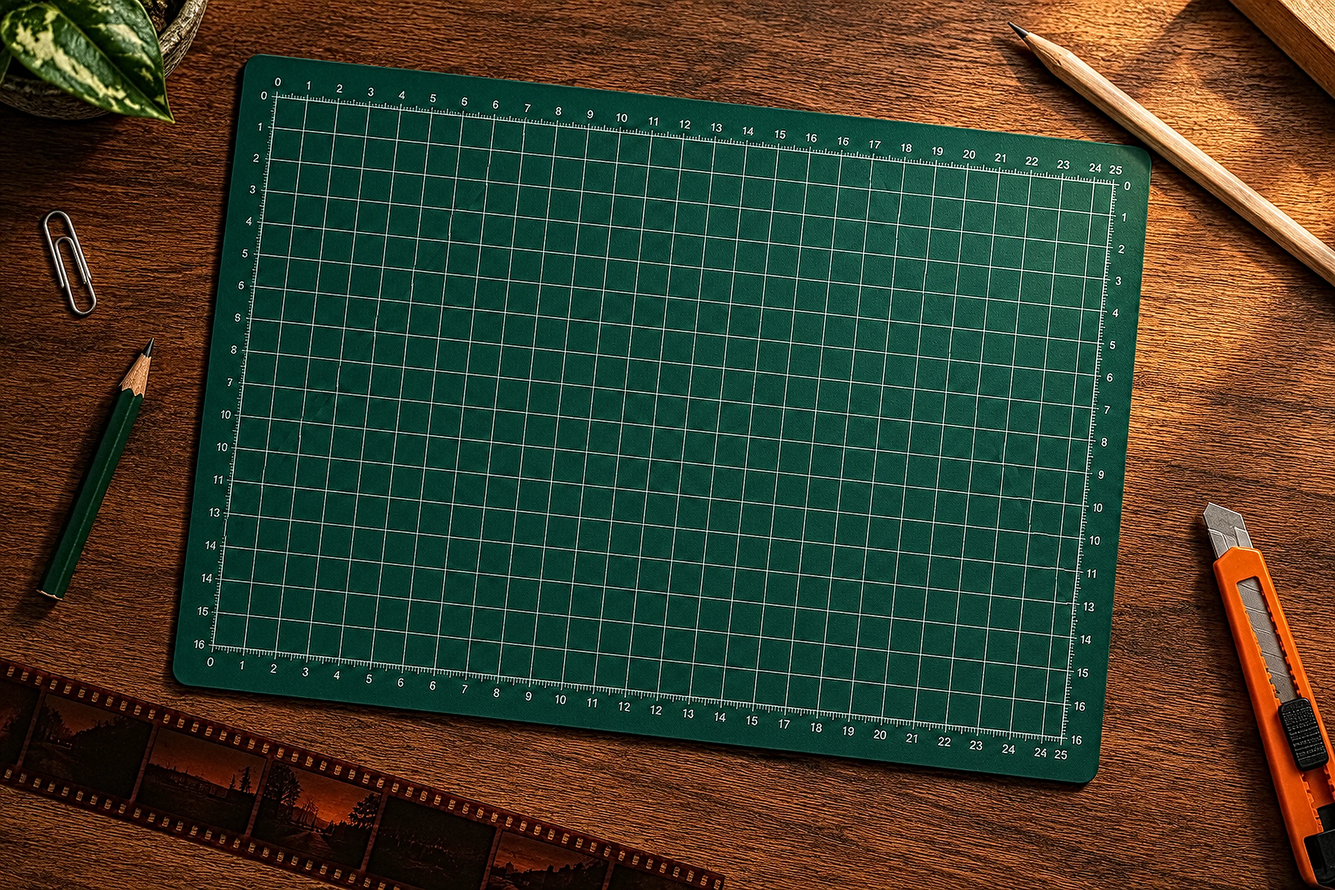
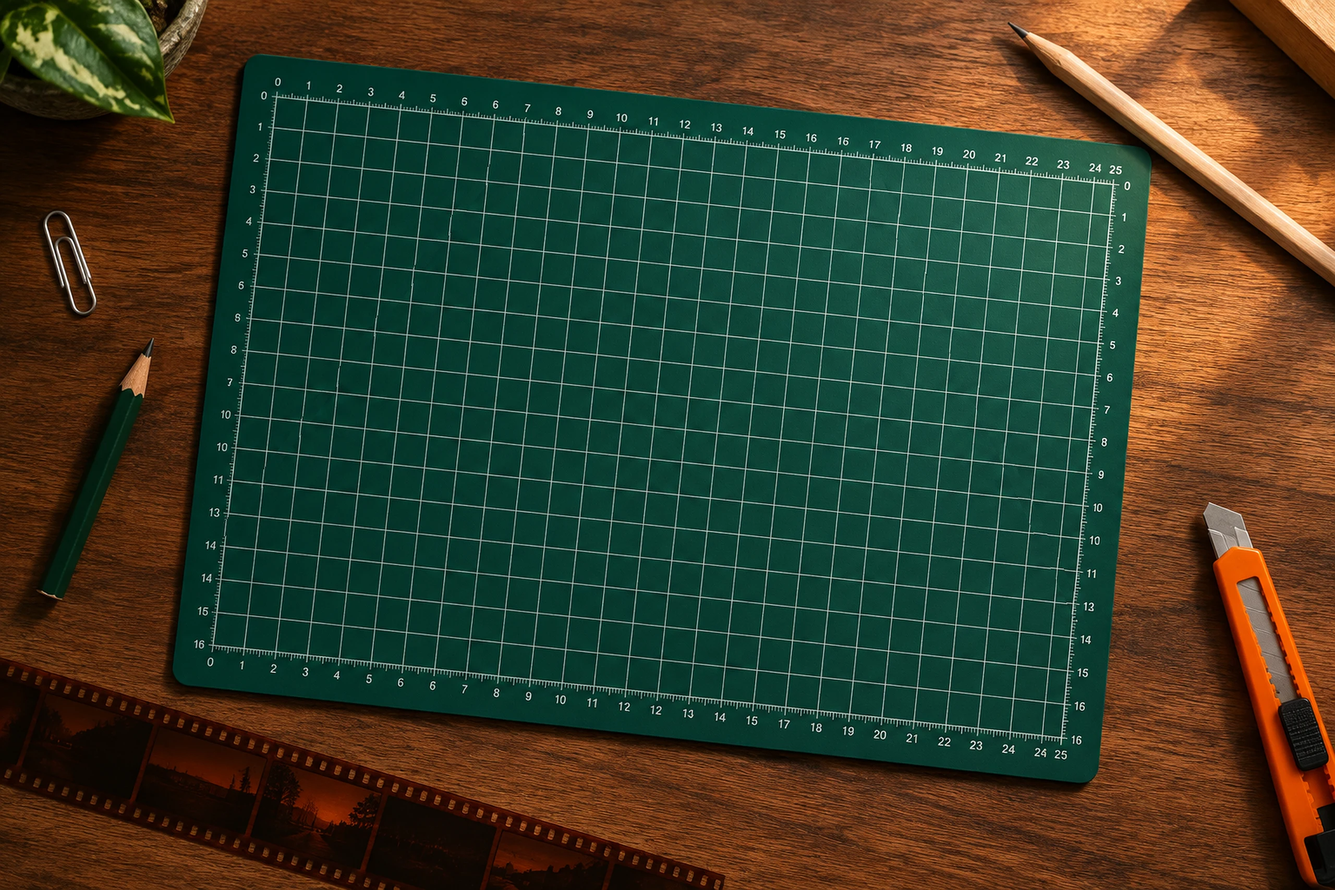
On Air: photoreal cork reel turning between real render angles, hand actually holding the reel, gentle sharpening
Claude-Session: https://claude.ai/code/session_015Py254KMr5kCvAhqEtRz8k

diff --git a/src/pages/OnAir.jsx b/src/pages/OnAir.jsx
@@ -4,7 +4,6 @@ import { Play } from 'lucide-react'
 import { CinemaThumb, useCinema } from '../components/qz/CinemaPlayer.jsx'
 import { fmtDate } from '../components/qz/Kit.jsx'
 import { assetUrl } from '../utils/assets.js'
-import CorkReel3D from '../components/onair/CorkReel3D.jsx'
 import { videos } from '../data/videos.js'
 import { YOUTUBE_CONFIG } from '../data/youtubeConfig.js'
 
@@ -33,20 +32,22 @@ function Stage() {
   const heroO = useTransform(p, [0, 0.08, 0.16], [1, 1, 0])
   const heroY = useTransform(p, [0, 0.16], ['0vh', '-6vh'])
 
-  // ٢. البكرة: نفس العنصر طول الوقت
-  const reelScale = useTransform(p, [0, 0.24, 0.62, 0.74, 1], [0.78, 1, 1, 0.56, 0.56])
-  const reelY = useTransform(p, [0, 0.62, 0.74, 1], ['0vh', '0vh', '-9vh', '-9vh'])
-  const rotX = useTransform(p, [0.26, 0.36, 0.46, 0.56, 0.62], [0, 58, 70, 28, 0])
-  const rotY = useTransform(p, [0.26, 0.36, 0.46, 0.56, 0.62], [0, -24, 36, -12, 0])
-  const rotZ = useTransform(p, [0, 1], [0, 220])
-
+  // ٢. البكرة: صور رندر حقيقية من زاويتين — بتلف بالسكرول وبتتبدّل بينهم
+  const reelScale = useTransform(p, [0, 0.24, 0.62, 0.7], [0.74, 1, 1, 0.9])
+  const rotZ = useTransform(p, [0, 0.66], [0, 150])
+  const tiltO = useTransform(p, [0.3, 0.37, 0.5, 0.57], [0, 1, 1, 0])
+  const frontO = useTransform(p, [0.3, 0.37, 0.5, 0.57, 0.66, 0.72], [1, 0, 0, 1, 1, 0])
+  const rotY = useTransform(p, [0.26, 0.37, 0.5, 0.62], [0, -18, 14, 0])
+  const rotX = useTransform(p, [0.26, 0.37, 0.5, 0.62], [0, 10, -8, 0])
+  const reelY = useTransform(p, [0.62, 0.72], ['0vh', '-4vh'])
   const revealO = useTransform(p, [0.26, 0.34, 0.58, 0.66], [0, 1, 1, 0])
   const revealX = useTransform(p, [0.26, 0.34], ['3vw', '0vw'])
 
   // ٣. مدعوم بالحكايات
   const powerO = useTransform(p, [0.68, 0.76], [0, 1])
   const powerBlur = useTransform(p, [0.68, 0.78], ['blur(14px)', 'blur(0px)'])
-  const handY = useTransform(p, [0.66, 0.82], ['70vh', '0vh'])
+  // الإيد طالعة ماسكة البكرة فعلاً — بتطلع لنفس مكان البكرة الطايرة اللي بتختفي
+  const handY = useTransform(p, [0.64, 0.74], ['80vh', '0vh'])
   const glowO = useTransform(p, [0.86, 0.94], [0, 1])
 
   // الإيد بتميل مع الماوس (زي «Try to hover hand»)
@@ -137,12 +138,32 @@ function Stage() {
         </motion.p>
 
         <motion.div className="qz-oz-hand" style={{ y: handY, rotate: handR }} aria-hidden="true">
-          <img src={IMG('hand-1000.webp')} srcSet={set('hand', 560, 1000)} sizes="34vh" alt="" data-no-tint="true" />
+          <img src={IMG('hand-reel-1600.webp')} srcSet={set('hand-reel', 700, 1600)} sizes="(max-width: 760px) 70vw, 46vh" alt="" data-no-tint="true" />
         </motion.div>
 
         <div className="qz-oz-reel-anchor" aria-hidden="true">
-          <motion.div className="qz-oz-reel" style={reduce ? undefined : { scale: reelScale, y: reelY }}>
-            <CorkReel3D textureUrl={IMG('cork.jpg')} rotX={rotX} rotY={rotY} rotZ={rotZ} className="qz-oz-reel-gl" />
+          <motion.div
+            className="qz-oz-reel"
+            style={reduce ? undefined : { scale: reelScale, y: reelY, rotateX: rotX, rotateY: rotY }}
+          >
+            <motion.img
+              className="qz-oz-reel-img"
+              src={IMG('reel-front-2048.webp')}
+              srcSet={set('reel-front', 900, 2048)}
+              sizes="(max-width: 760px) 86vw, 62vh"
+              alt=""
+              data-no-tint="true"
+              style={reduce ? undefined : { opacity: frontO, rotate: rotZ }}
+            />
+            <motion.img
+              className="qz-oz-reel-img"
+              src={IMG('reel-tilt-2048.webp')}
+              srcSet={set('reel-tilt', 900, 2048)}
+              sizes="(max-width: 760px) 86vw, 62vh"
+              alt=""
+              data-no-tint="true"
+              style={reduce ? { opacity: 0 } : { opacity: tiltO }}
+            />
           </motion.div>
         </div>
 

diff --git a/src/styles/onair-oryzo.css b/src/styles/onair-oryzo.css
@@ -241,13 +241,19 @@
   pointer-events: none;
 }
 .qz-oz-reel {
-  width: min(62vh, 56vw);
+  position: relative;
+  width: min(50vh, 46vw);
   aspect-ratio: 1;
+  transform-style: preserve-3d;
   will-change: transform;
 }
-.qz-oz-reel-gl {
+.qz-oz-reel-img {
+  position: absolute;
+  inset: 0;
   width: 100%;
   height: 100%;
+  object-fit: contain;
+  filter: drop-shadow(0 34px 40px rgb(0 0 0 / 0.55));
 }
 
 /* ── ٢. الكشف ── */
@@ -324,11 +330,11 @@
 }
 .qz-oz-hand {
   position: absolute;
-  z-index: 1;
+  z-index: 2;
   left: 50%;
   bottom: 0;
-  width: min(34vh, 30vw);
-  margin-left: calc(min(34vh, 30vw) / -2);
+  width: min(46vh, 40vw);
+  margin-left: calc(min(46vh, 40vw) / -2);
   transform-origin: 50% 100%;
   pointer-events: none;
 }
@@ -336,8 +342,7 @@
   display: block;
   width: 100%;
   height: auto;
-  margin-bottom: -18%;
-  filter: brightness(0.62) sepia(0.25);
+  margin-bottom: -6%;
 }
 
 .qz-oz-legal {
@@ -487,7 +492,7 @@
     display: none;
   }
   .qz-oz-reel {
-    width: 86vw;
+    width: 80vw;
   }
   .qz-oz-reveal-h {
     top: 20%;
@@ -505,8 +510,8 @@
     font-size: 40px;
   }
   .qz-oz-hand {
-    width: 54vw;
-    margin-left: -27vw;
+    width: 70vw;
+    margin-left: -35vw;
   }
   .qz-oz-power-note {
     inset-inline-end: var(--oz-pad);
